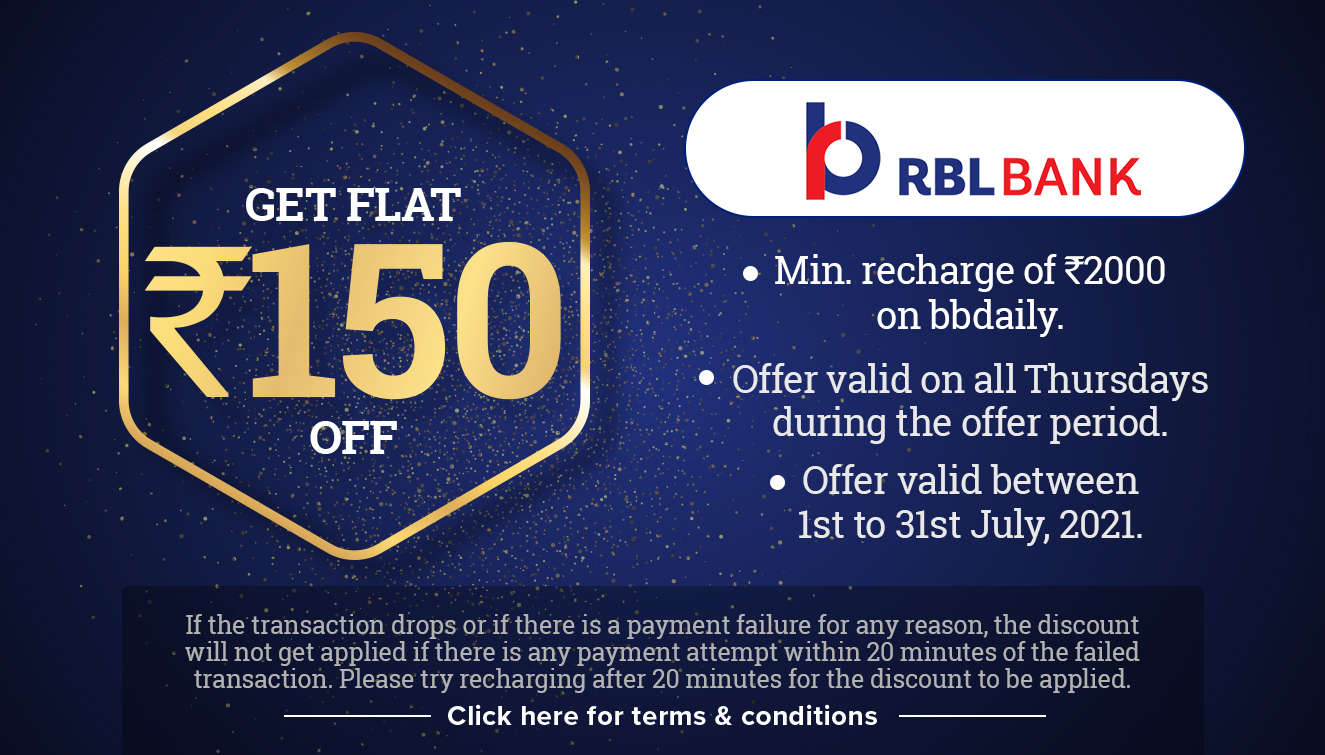
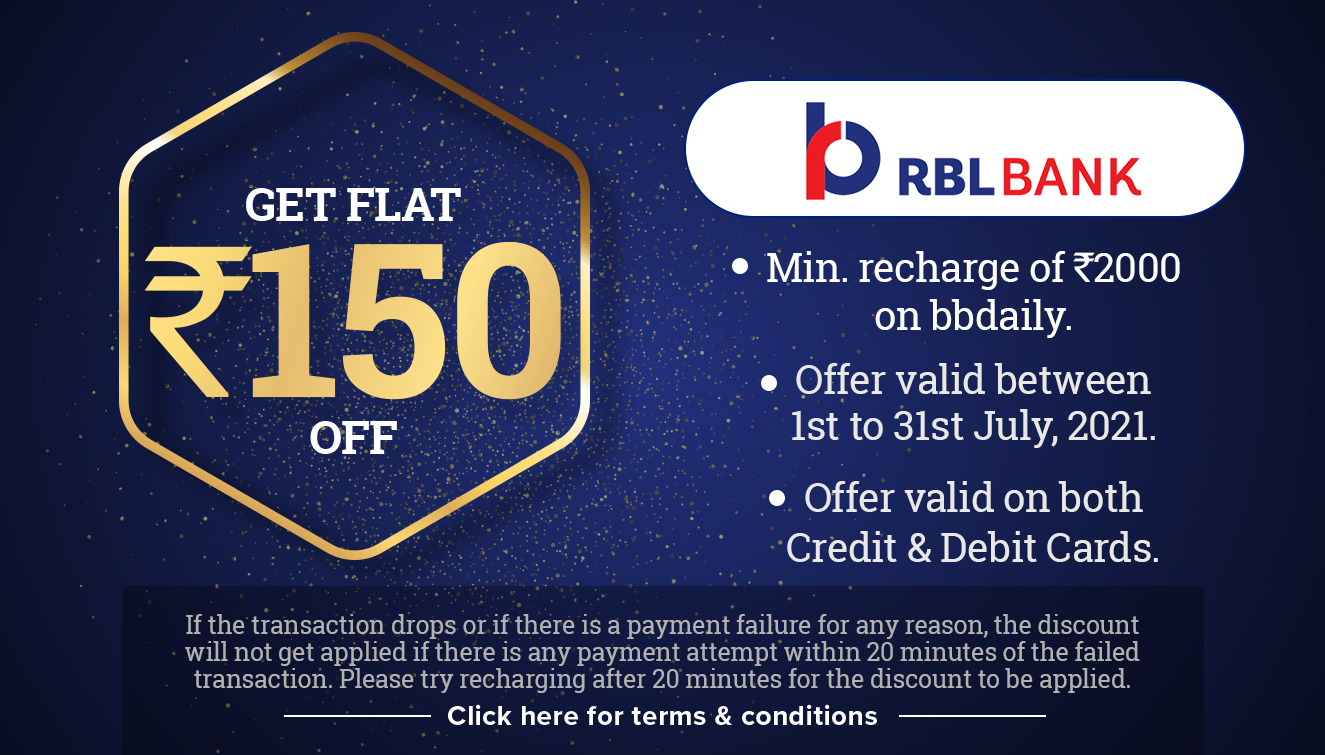
Corrections
RBL Banner, Fresho Padding, Milk Offer T&Cs,

Changed region(s): [[0.526, 0.3351, 0.9283, 0.7616]]

diff --git a/milk.html b/milk.html
@@ -343,6 +343,40 @@ $(document).ready(function () {
                               Offer Applicable City: Ahmedabad & Mumbai	<br>
                               </p>
 
+                              <!--T2 Cities	-->
+                              <br>
+                              <h3>Free Milk Offer for Lucknow, Kanpur, Visakhapatnam, Vijayawada, Guntur, Chandigarh Tricity, Patna, Indore & Kochi</h3>
+                              <p class="text-left"style="padding-top:5%; font-weight:bold; font-size: 16px" >
+                                Recharge for Rs.2000/- & Get 4 days milk free. <br>
+                                Use code: 4D <br>
+                                  <br>
+                                <i><u>T&C for the offer	<br></u></i>
+                                Free delivery after every 4th paid delivery max. up to 4 free deliveries.	<br>
+                                On minimum recharge of Rs.2000/-	<br>
+                                Offer valid only for New Customers.	<br>
+                                Customers should activate a milk subscription with a 500ml packet of milk or milk with value <=Rs28 are eligible for the offer.	<br>
+                                Offer valid till 30th June 2021	<br>
+                                The offer is void if the customer unsubscribes	<br>
+                                The coupon is applicable once per address	<br>
+                                bbdaily reserves the right to withdraw the offer at any point in time	<br>
+                                Offer valid in cities: Lucknow Kanpur, Visakhapatnam, Vijayawada Guntur, Chandigarh Tricity, Patna, Indore, Kochi	<br>
+                                  <br>
+                                  <br>
+                                Recharge for Rs.1000/- & Get 2 days milk free. <br>
+                                Use code: 2D <br>
+                                  <br>
+                                <i><u>T&C for the offer	<br></u></i>
+                                Free delivery after every 4th paid delivery max. up to 2 free deliveries.	<br>
+                                On minimum recharge of Rs.1000/-	<br>
+                                Offer valid only for New Customers.	<br>
+                                Customers should activate a milk subscription with a 500ml packet of milk or milk with value <=Rs28 are eligible for the offer.	<br>
+                                Offer valid till 30th June 2021	<br>
+                                The offer is void if the customer unsubscribes	<br>
+                                The coupon is applicable once per address	<br>
+                                bbdaily reserves the right to withdraw the offer at any point in time	<br>
+                                Offer valid in cities: Lucknow, Kanpur, Visakhapatnam, Vijayawada, Guntur, Chandigarh Tricity, Patna, Indore, Kochi	<br>
+                              </p>
+
                     <!--
                               <div>      
                                   <table>

diff --git a/rbl.html b/rbl.html
@@ -84,6 +84,7 @@
                         • Flat Rs. 150/- Off on min. Recharge of Rs. 2500/- on bbdaily.	<br>
                         • Valid once per card per month valid July 1st to 31st, 2021.	<br>
                         • Offer will be applicable once per RBL Debit/Credit Card on bbdaily.	<br>
+                        • Offer valid on both Bank Credit & Debit Cards. <br>
                               <br>
                         *If the transaction drops or if there is a payment failure for any reason, the discount will not get applied if there is any payment attempt within 20 minutes of the failed transaction. Please try recharging after 20 minutes for the discount to be applied.	<br>
                         </p>

diff --git a/fp/startfreshfp/index.html b/fp/startfreshfp/index.html
@@ -6,7 +6,7 @@
 
         body {
             margin-left: 0px;
-            padding: 0px;
+            padding-top: 0px;
             background-color: #ccc;
         
         }

diff --git a/start fresh.html b/start fresh.html
@@ -133,12 +133,8 @@ width: 150px;
 	
 	
 </head>
-<body>
+<body class="pt-5 mt-4">
 
-
-	
-	
-	
 <!-- Navigation -->
 	
 	
